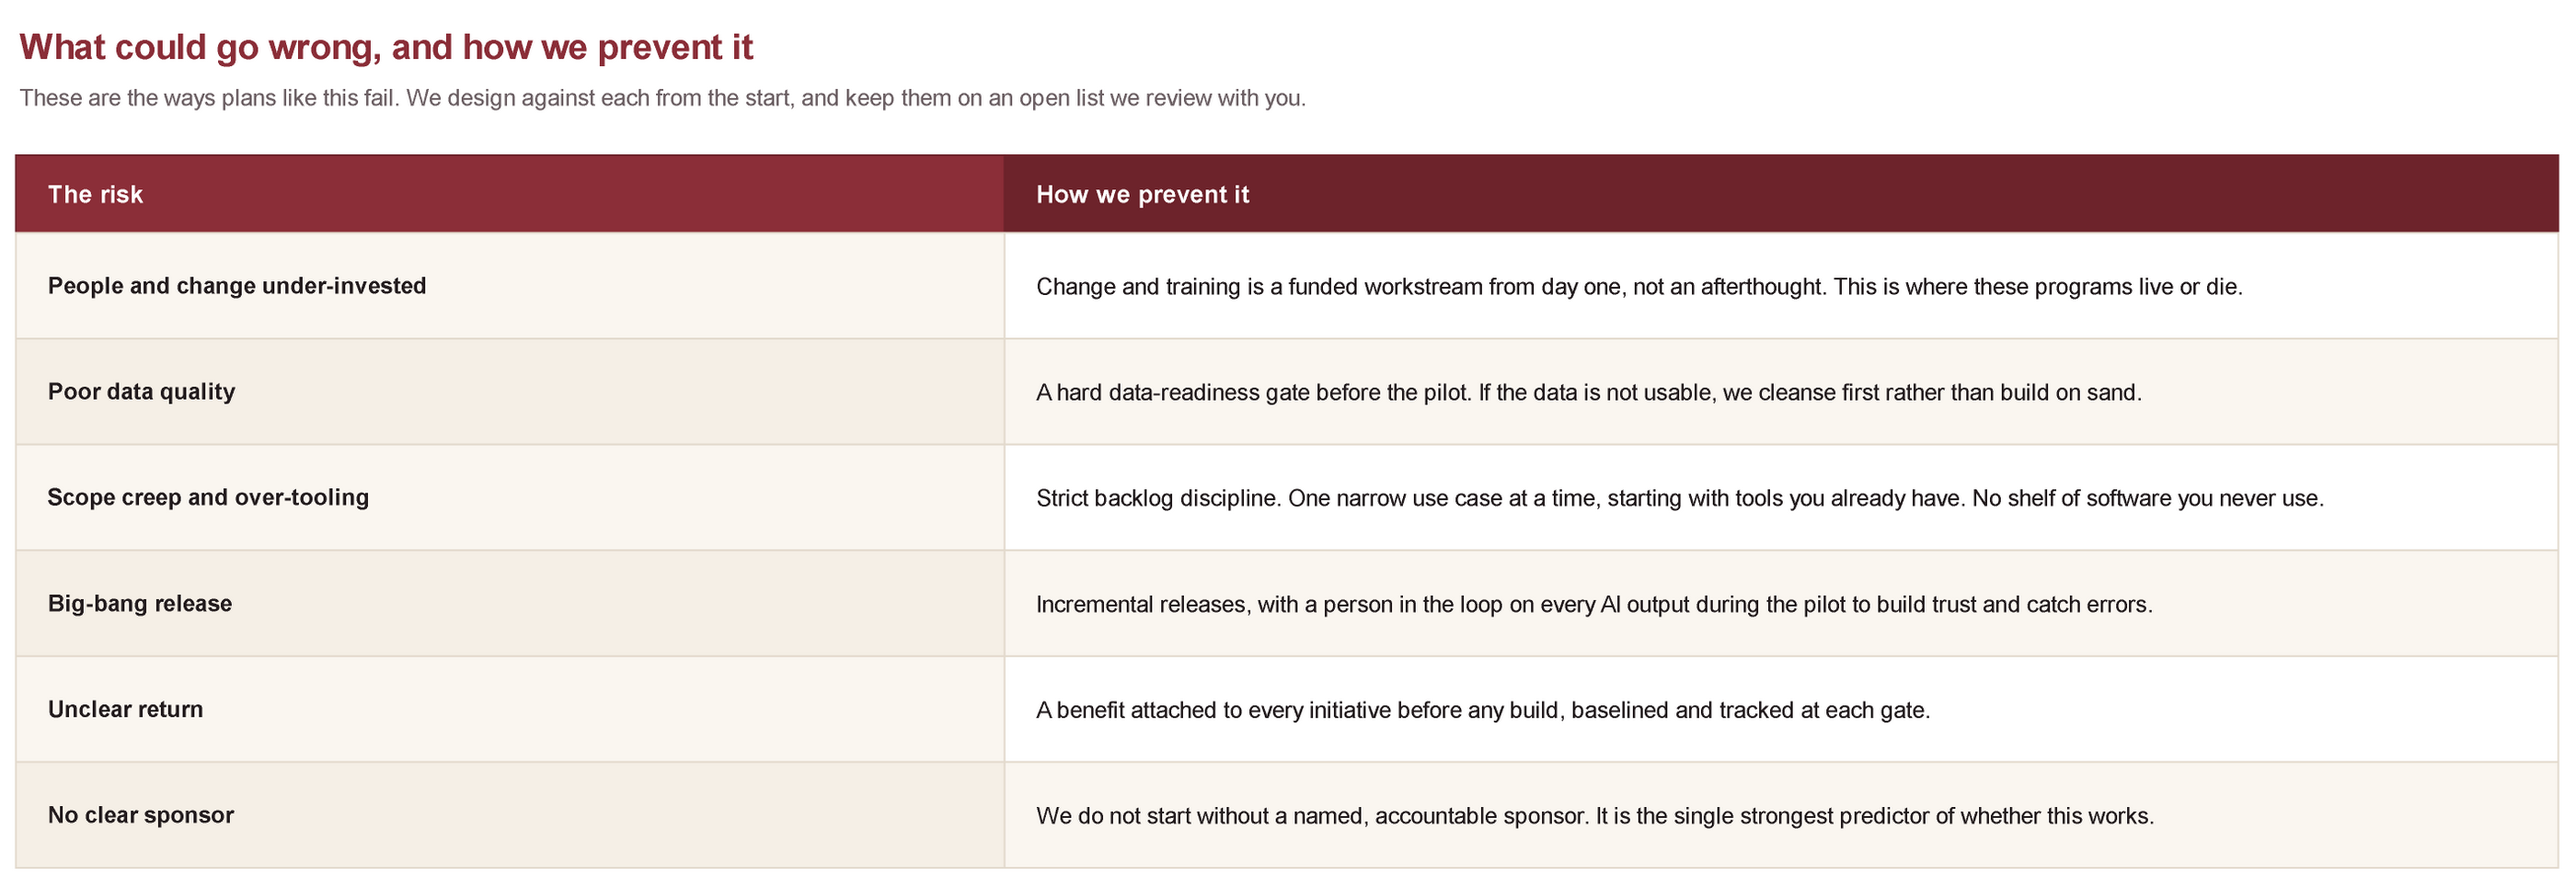
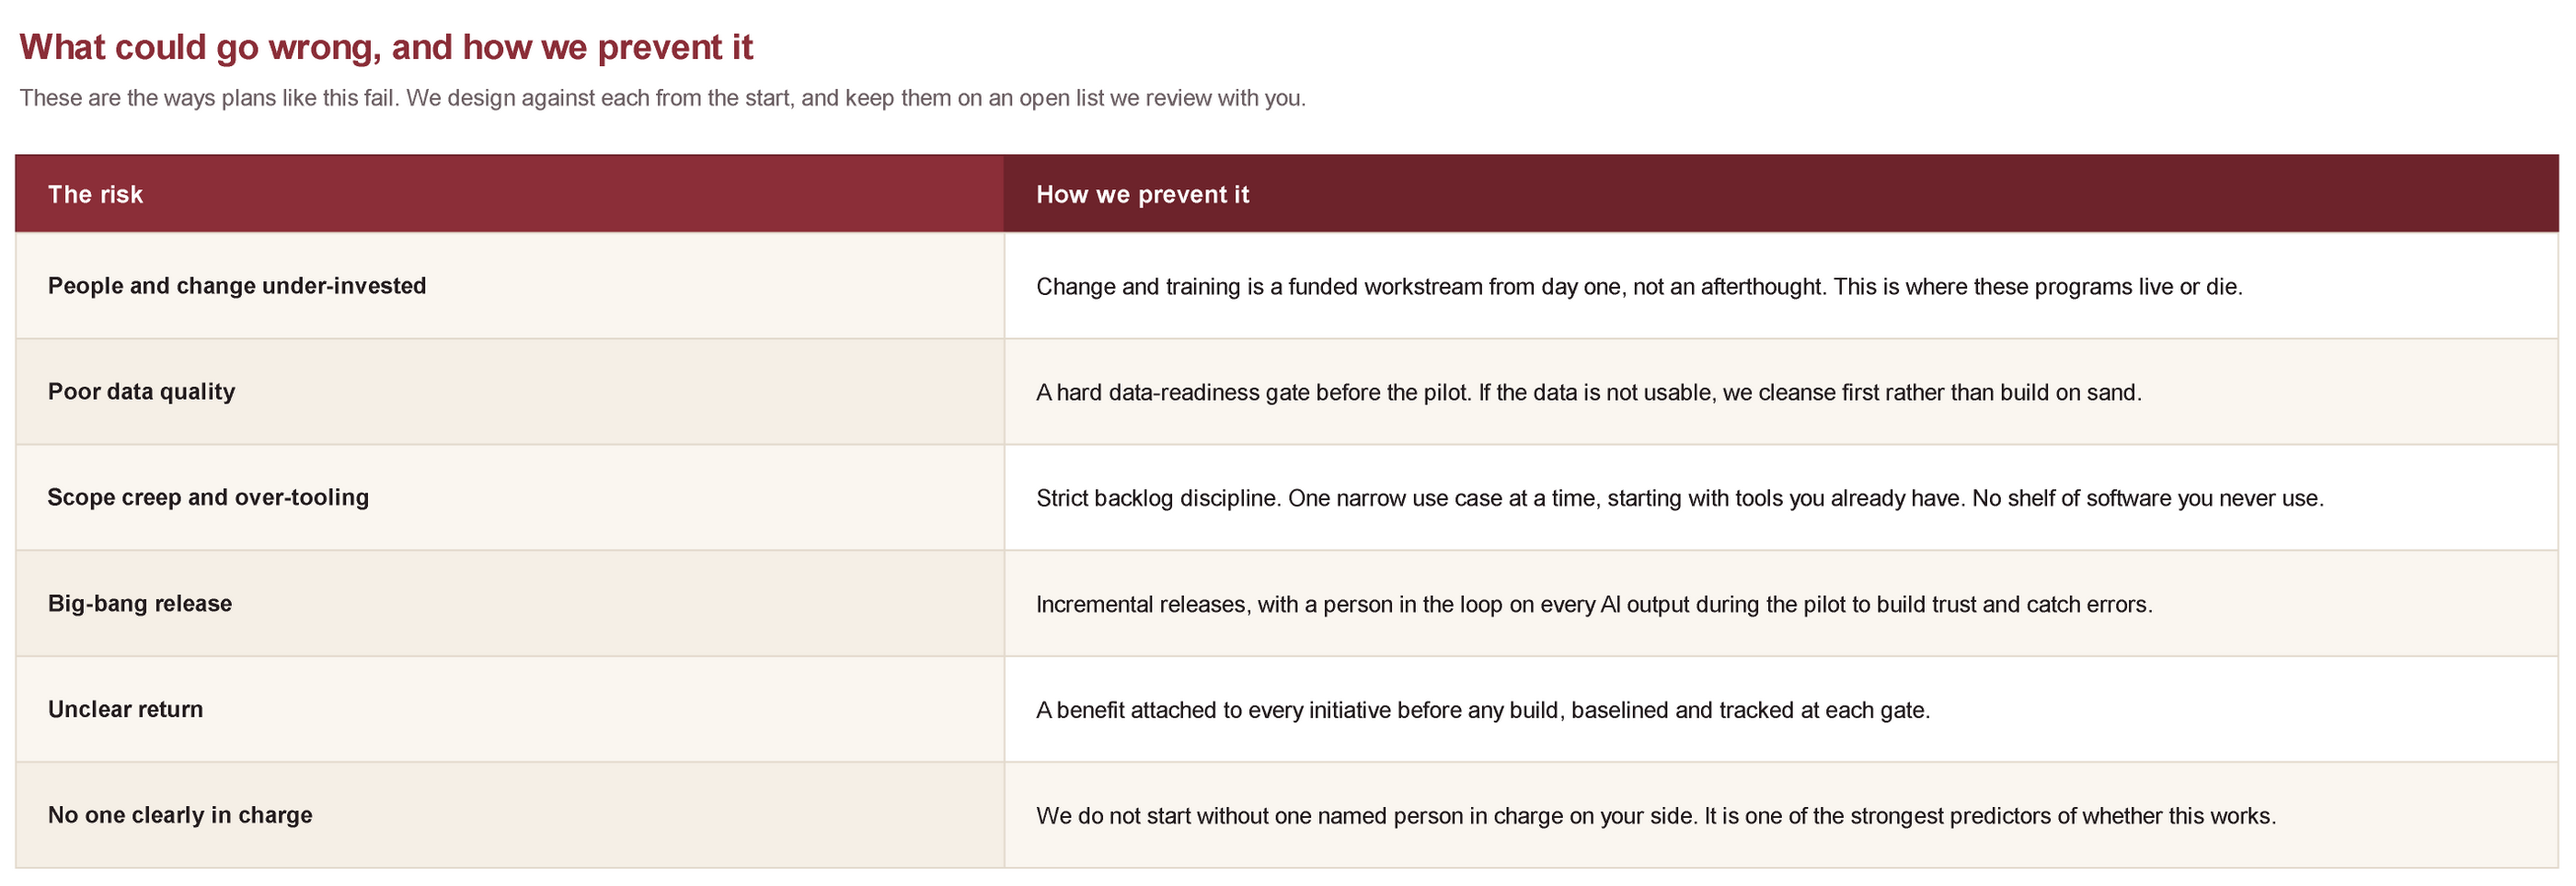
Apply the verification-fleet findings
Plain-vocabulary owner labels across the diagrams (our lead, your data
person, the go-to people), training starts in rollout rather than fits
inside it, department dashboards at gate three so the first dashboard
stays a quick-wins deliverable, budget wording says what the gates
actually do, and the named-owner claim is hedged.

Changed region(s): [[0.4971, 0.9025, 0.9011, 0.9336], [0.0311, 0.9025, 0.1243, 0.9336]]

diff --git a/index.html b/index.html
@@ -129,7 +129,7 @@
   <div class="content figrow">
     <div class="fighead"><div class="eyebrow">The delivery plan</div><h2>Four phases, each with <span class="accent">a checkpoint you sign off</span></h2></div>
     <div class="figure"><img src="diagrams/1-roadmap.png" alt="Four-phase roadmap: potential analysis, quick wins, rollout, embed, each with a checkpoint you sign off."></div>
-    <div class="figtake"><b>Each checkpoint is a decision point you control.</b> Nothing moves to the next phase until you sign off on the last one, so your budget is protected the whole way through. Inside each phase the building happens in short, quick rounds, so you see something working early. The timings reflect what projects like this typically take at a company your size. We set the real dates with you.</div>
+    <div class="figtake"><b>Each checkpoint is a decision point you control.</b> Nothing moves to the next phase until you sign off on the last one, so no budget is committed beyond the phase you have approved. Inside each phase the building happens in short, quick rounds, so you see something working early. The timings reflect what projects like this typically take at a company your size. We set the real dates with you.</div>
   </div>
   <div class="foot"><span>The roadmap</span><span class="num">03 / 11</span></div>
 </section>
@@ -139,7 +139,7 @@
   <div class="content figrow">
     <div class="fighead"><div class="eyebrow">Who keeps it on track</div><h2>Who decides, who delivers, <span class="accent">who owns adoption</span></h2></div>
     <div class="figure"><img src="diagrams/2-governance.png" alt="Who decides, who delivers, who owns adoption: a steering group, clear roles, and one update at two levels of detail for the CEO and the data person."></div>
-    <div class="figtake"><b>One named owner is the biggest reason these projects work.</b> The same update reaches everyone at the right level of detail: a single page for the CEO on where things stand, working sessions on the detail for your data person. A short check-in with the team each week, a steering meeting every two weeks.</div>
+    <div class="figtake"><b>One named owner is one of the biggest reasons these projects work.</b> The same update reaches everyone at the right level of detail: a single page for the CEO on where things stand, working sessions on the detail for your data person. A short check-in with the team each week, a steering meeting every two weeks.</div>
   </div>
   <div class="foot"><span>Governance</span><span class="num">04 / 11</span></div>
 </section>
